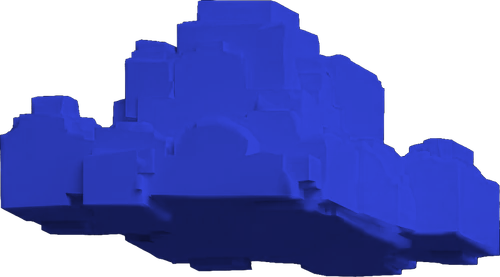
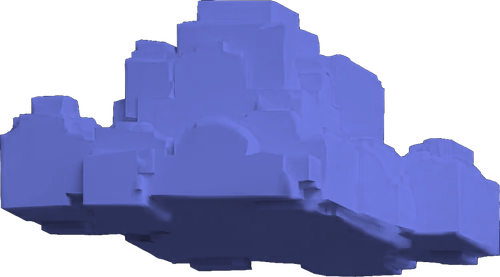
Match blue hero to mint background and soften clouds

diff --git a/README.md b/README.md
@@ -10,9 +10,9 @@ This repository contains three static frontend exports of the Flashloop referenc
 
 Primary navigation includes all observed tabs except Super Agent, including Faceless Studio. Authentication, payments, generation and email delivery require the original service; this preview recreates the frontend.
 
-Built from source commit `6fb1ef6d4b27f6848edbd0e11c29df874d012e0b` on 29 October 2026. ESLint, TypeScript, all three production exports, fifteen tests, 165 pages, 593 referenced assets, and 108 local destinations passed before publication. The static icon comparison matched 395 controls across nine reference pages. A subsequent browser comparison corrected the image/video composer and voice icons. All 204 optimized media outputs previously passed a one-second FFmpeg decode check.
+Built from source commit `6c4af174512915971d9a4f90c33d785a79e9dbba` on 29 October 2026. ESLint, TypeScript, all three production exports, fifteen tests, 165 pages, 593 referenced assets, and 108 local destinations passed before publication. The static icon comparison matched 395 controls across nine reference pages. A subsequent browser comparison corrected the image/video composer and voice icons. All 204 optimized media outputs previously passed a one-second FFmpeg decode check.
 
-Each additional palette updates 89 theme tokens and ten branded assets. Solid mint controls use dark text (13.18:1 contrast). Solid blue controls use white text (7.15:1); blue accent text on charcoal uses a lighter tint. The blue footer uses white labels, provider icons, and an animated white wordmark. Pricing card interiors keep white text on charcoal. Cloud undersides, ambient lighting, and the favicon follow each theme.
+Each additional palette updates 89 theme tokens and ten branded assets. Solid mint controls use dark text (13.18:1 contrast). Solid blue controls use white text (7.15:1); blue accent text on charcoal uses a lighter tint. The blue footer uses white labels, provider icons, and an animated white wordmark. Pricing card interiors keep white text on charcoal. The blue hero reuses the mint grid and lighting assets exactly, with softer blue clouds (#707ce2). Its main accent remains #3344d6. Cloud shading and transparency are preserved.
 
 Video optimization reduces 407,523,707 bytes to 259,730,057 bytes (36.3%). Videos load near the viewport and pause offscreen or when the document is hidden. Reduced-motion preferences are respected. The existing desktop scroll sequence is preserved. Clouds retain their shading and transparency and fade upward after image decoding, including refreshes. The production frontend was reviewed in the ChatGPT in-app browser at desktop, tablet, and phone widths.
 
